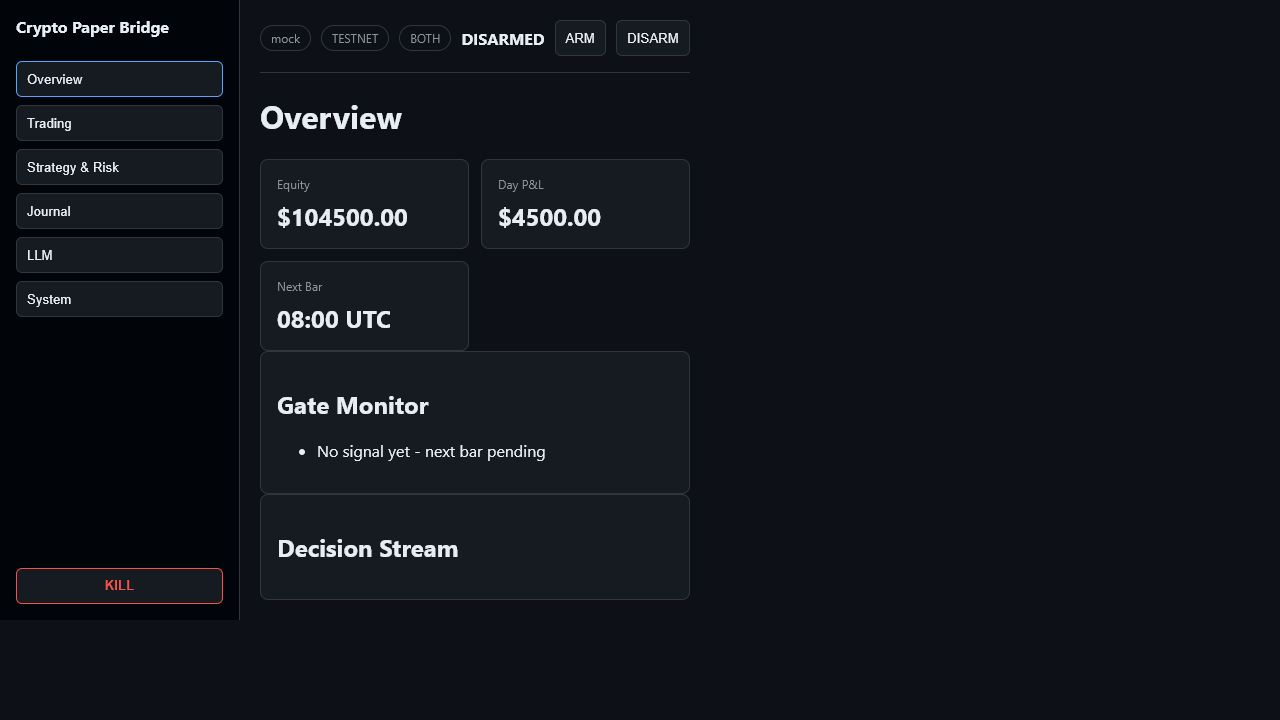
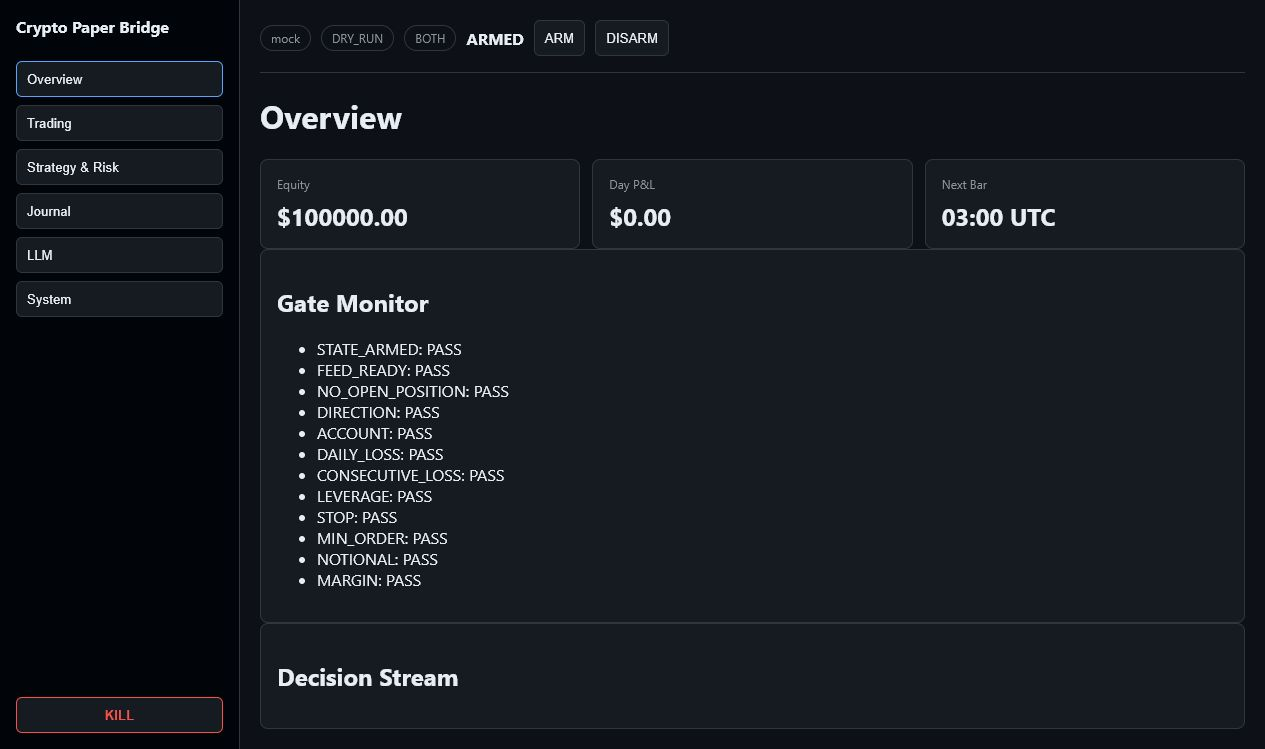
fix(bridge): use local live candle chart

diff --git a/IBKR_PAPER_BRIDGE/bridge/static/app.js b/IBKR_PAPER_BRIDGE/bridge/static/app.js
@@ -2,8 +2,6 @@ const state = {
   status: null,
   snapshot: null,
   bars: [],
-  chart: null,
-  candleSeries: null,
 };
 
 const byId = (id) => document.getElementById(id);
@@ -49,13 +47,16 @@ function renderAll() {
 
 function renderStatus() {
   if (!state.status) return;
+  const latestEquity = state.snapshot && state.snapshot.equity.length ? state.snapshot.equity[0] : null;
+  const equity = typeof state.status.equity === "number" ? state.status.equity : latestEquity && latestEquity.equity;
+  const dayPnl = typeof state.status.day_pnl === "number" ? state.status.day_pnl : latestEquity && latestEquity.realized_today;
   setText("connPill", state.status.exchange_conn || "mock");
-  setText("modePill", (state.status.network || "testnet").toUpperCase());
+  setText("modePill", (state.status.mode || state.status.network || "testnet").toUpperCase());
   setText("regimePill", state.status.regime || "BOTH");
   setText("stateText", state.status.state || "DISARMED");
-  setText("equityValue", formatMoney(state.status.equity));
-  setText("pnlValue", formatMoney(state.status.day_pnl));
-  setText("nextBar", state.status.next_bar || "--:--:--");
+  setText("equityValue", formatMoney(equity));
+  setText("pnlValue", formatMoney(dayPnl));
+  setText("nextBar", state.status.next_bar || nextBarLabel());
 }
 
 function renderConfig() {
@@ -159,31 +160,6 @@ function renderPriceChart() {
   const box = byId("chartBox");
   if (!box || !state.bars.length) return;
   renderFallbackCandles(box);
-  return;
-  if (!window.LightweightCharts) {
-    renderFallbackCandles(box);
-    return;
-  }
-  if (!state.chart) {
-    box.replaceChildren();
-    state.chart = LightweightCharts.createChart(box, {
-      width: box.clientWidth,
-      height: Math.max(260, box.clientHeight),
-      layout: { background: { color: "#161b22" }, textColor: "#e6edf3" },
-      grid: { vertLines: { color: "#30363d" }, horzLines: { color: "#30363d" } },
-      rightPriceScale: { borderColor: "#30363d" },
-      timeScale: { borderColor: "#30363d" },
-    });
-    state.candleSeries = state.chart.addCandlestickSeries({
-      upColor: "#3fb950",
-      downColor: "#f85149",
-      borderVisible: false,
-      wickUpColor: "#3fb950",
-      wickDownColor: "#f85149",
-    });
-  }
-  state.candleSeries.setData(state.bars);
-  state.chart.timeScale().fitContent();
 }
 
 function renderFallbackCandles(box) {
@@ -234,16 +210,32 @@ function maxPrice(min, span) {
   return min + span;
 }
 
+function nextBarLabel() {
+  if (!state.bars.length) return "--:--:--";
+  const next = new Date((state.bars[state.bars.length - 1].time + 3600) * 1000);
+  return `${String(next.getUTCHours()).padStart(2, "0")}:00 UTC`;
+}
+
 function connectWs() {
   const scheme = window.location.protocol === "https:" ? "wss" : "ws";
   const socket = new WebSocket(`${scheme}://${window.location.host}/ws`);
   socket.addEventListener("message", (event) => {
     const message = JSON.parse(event.data);
-    if (message.topic !== "snapshot") return;
-    state.snapshot = message.data;
-    state.status = state.snapshot.status;
-    state.bars = state.snapshot.bars ? state.snapshot.bars.bars : state.bars;
-    renderAll();
+    if (message.topic === "snapshot") {
+      state.snapshot = message.data;
+      state.status = state.snapshot.status;
+      state.bars = state.snapshot.bars ? state.snapshot.bars.bars : state.bars;
+      renderAll();
+      return;
+    }
+    if (message.topic === "status") {
+      state.status = message.data;
+      renderStatus();
+      renderSystem();
+      return;
+    }
+    window.clearTimeout(state.refreshTimer);
+    state.refreshTimer = window.setTimeout(() => refresh().catch(() => {}), 50);
   });
 }
 

diff --git a/IBKR_PAPER_BRIDGE/bridge/static/index.html b/IBKR_PAPER_BRIDGE/bridge/static/index.html
@@ -105,7 +105,6 @@
       </section>
     </section>
   </main>
-  <script src="https://unpkg.com/lightweight-charts@4.2.0/dist/lightweight-charts.standalone.production.js"></script>
-  <script src="/static/app.js?v=3"></script>
+  <script src="/static/app.js?v=4"></script>
 </body>
 </html>

diff --git a/IBKR_PAPER_BRIDGE/bridge/engine/bars.py b/IBKR_PAPER_BRIDGE/bridge/engine/bars.py
@@ -91,6 +91,7 @@ class BarFeed:
         on_event: EventCallback | None = None,
         on_stale: Callable[[], object] | None = None,
         poll_seconds: float = 1.0,
+        staleness_enabled: bool = True,
     ) -> None:
         self.broker = broker
         self.coin = coin
@@ -99,6 +100,7 @@ class BarFeed:
         self.on_event = on_event
         self.on_stale = on_stale
         self.poll_seconds = poll_seconds
+        self.staleness_enabled = staleness_enabled
         self.last_bar_update: datetime | None = None
         self.warmup: list[Bar] = []
         self._stop = asyncio.Event()
@@ -134,7 +136,7 @@ class BarFeed:
         if finalize_due is not None:
             finalize_due(now)
         reference = getattr(self.broker, "last_bar_update", None) or self.last_bar_update
-        if reference is None:
+        if reference is None or not self.staleness_enabled:
             return
         if now - reference > 2 * timeframe_delta(self.timeframe) and not self._stale_emitted:
             self._stale_emitted = True

diff --git a/IBKR_PAPER_BRIDGE/bridge/engine/engine.py b/IBKR_PAPER_BRIDGE/bridge/engine/engine.py
@@ -63,6 +63,7 @@ class BridgeEngine:
             on_bar_closed=self.on_bar,
             on_event=self._feed_event,
             on_stale=self._stale_disarm,
+            staleness_enabled=self.mode != "dry_run",
         )
         self.bars = await self._feed.start(lookback=lookback)
         stream = getattr(self.broker, "start_stream", None)

diff --git a/IBKR_PAPER_BRIDGE/tests/test_dashboard_static.py b/IBKR_PAPER_BRIDGE/tests/test_dashboard_static.py
@@ -23,6 +23,9 @@ def test_dashboard_core_static_contract():
     assert "innerHTML" not in js
     assert "textContent" in js
     assert "decisionDrawer" in html
+    assert "unpkg.com" not in html
+    assert "LightweightCharts" not in js
+    assert "createElementNS" in js
 
 
 def test_dashboard_root_serves_html():
